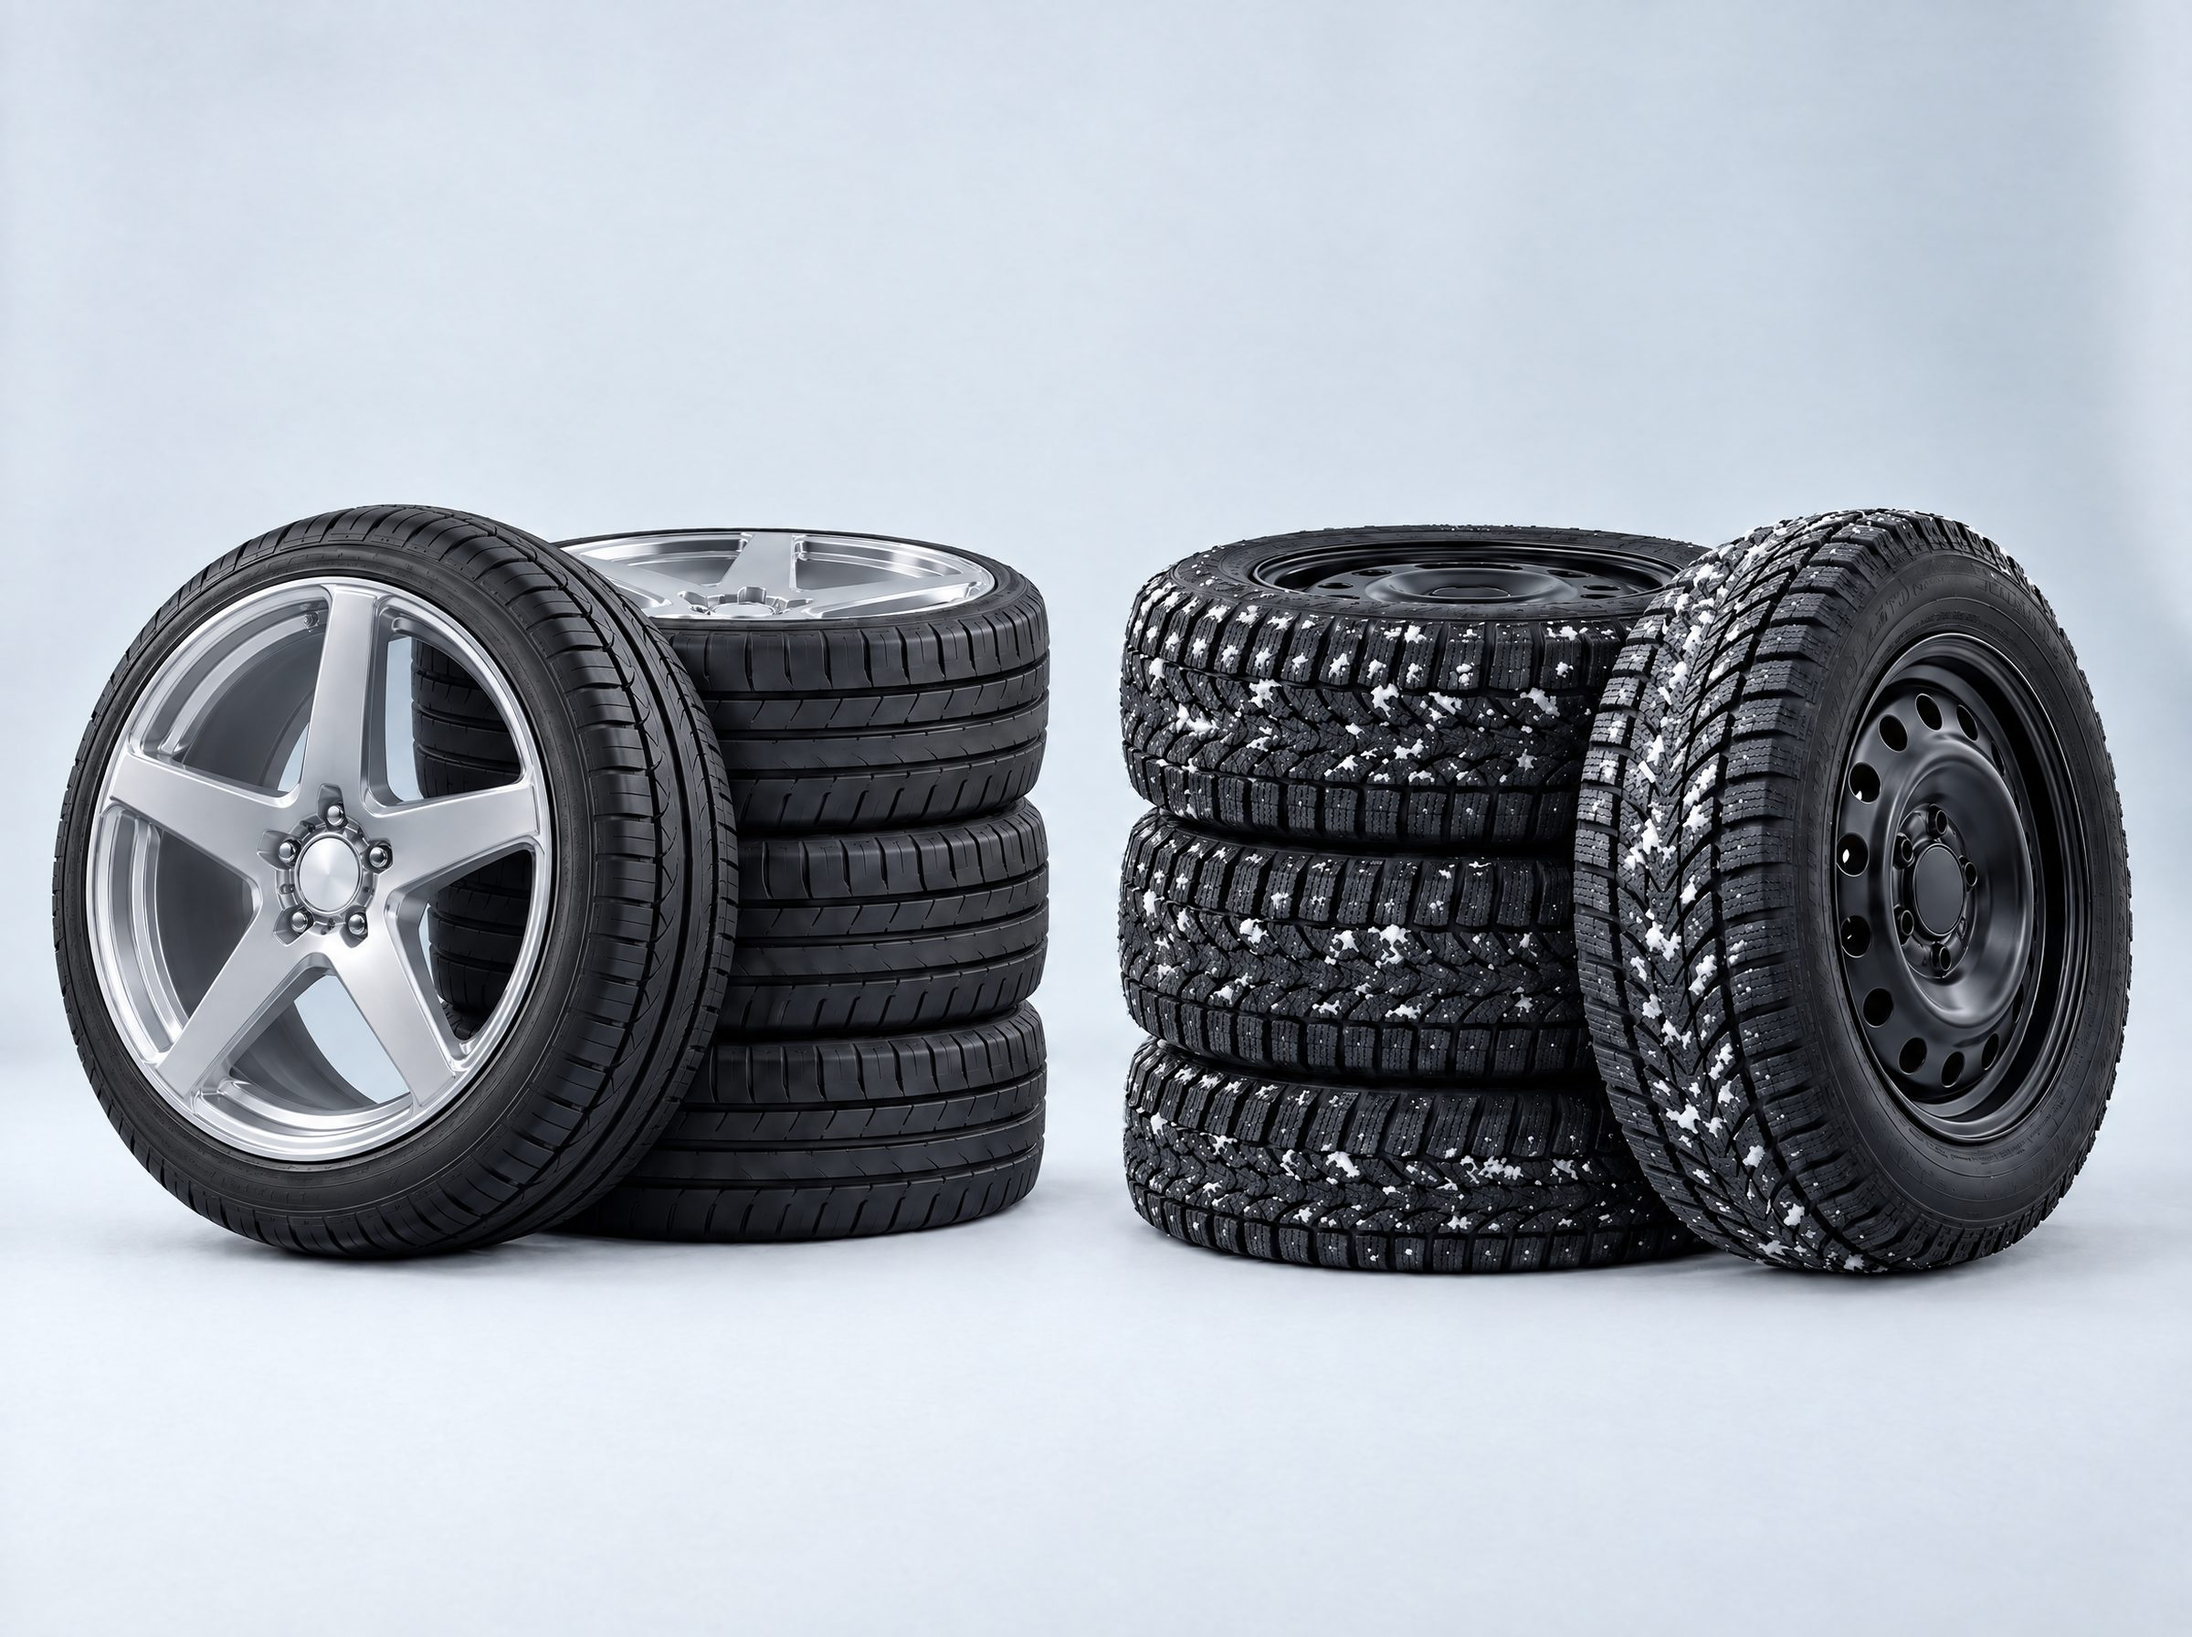
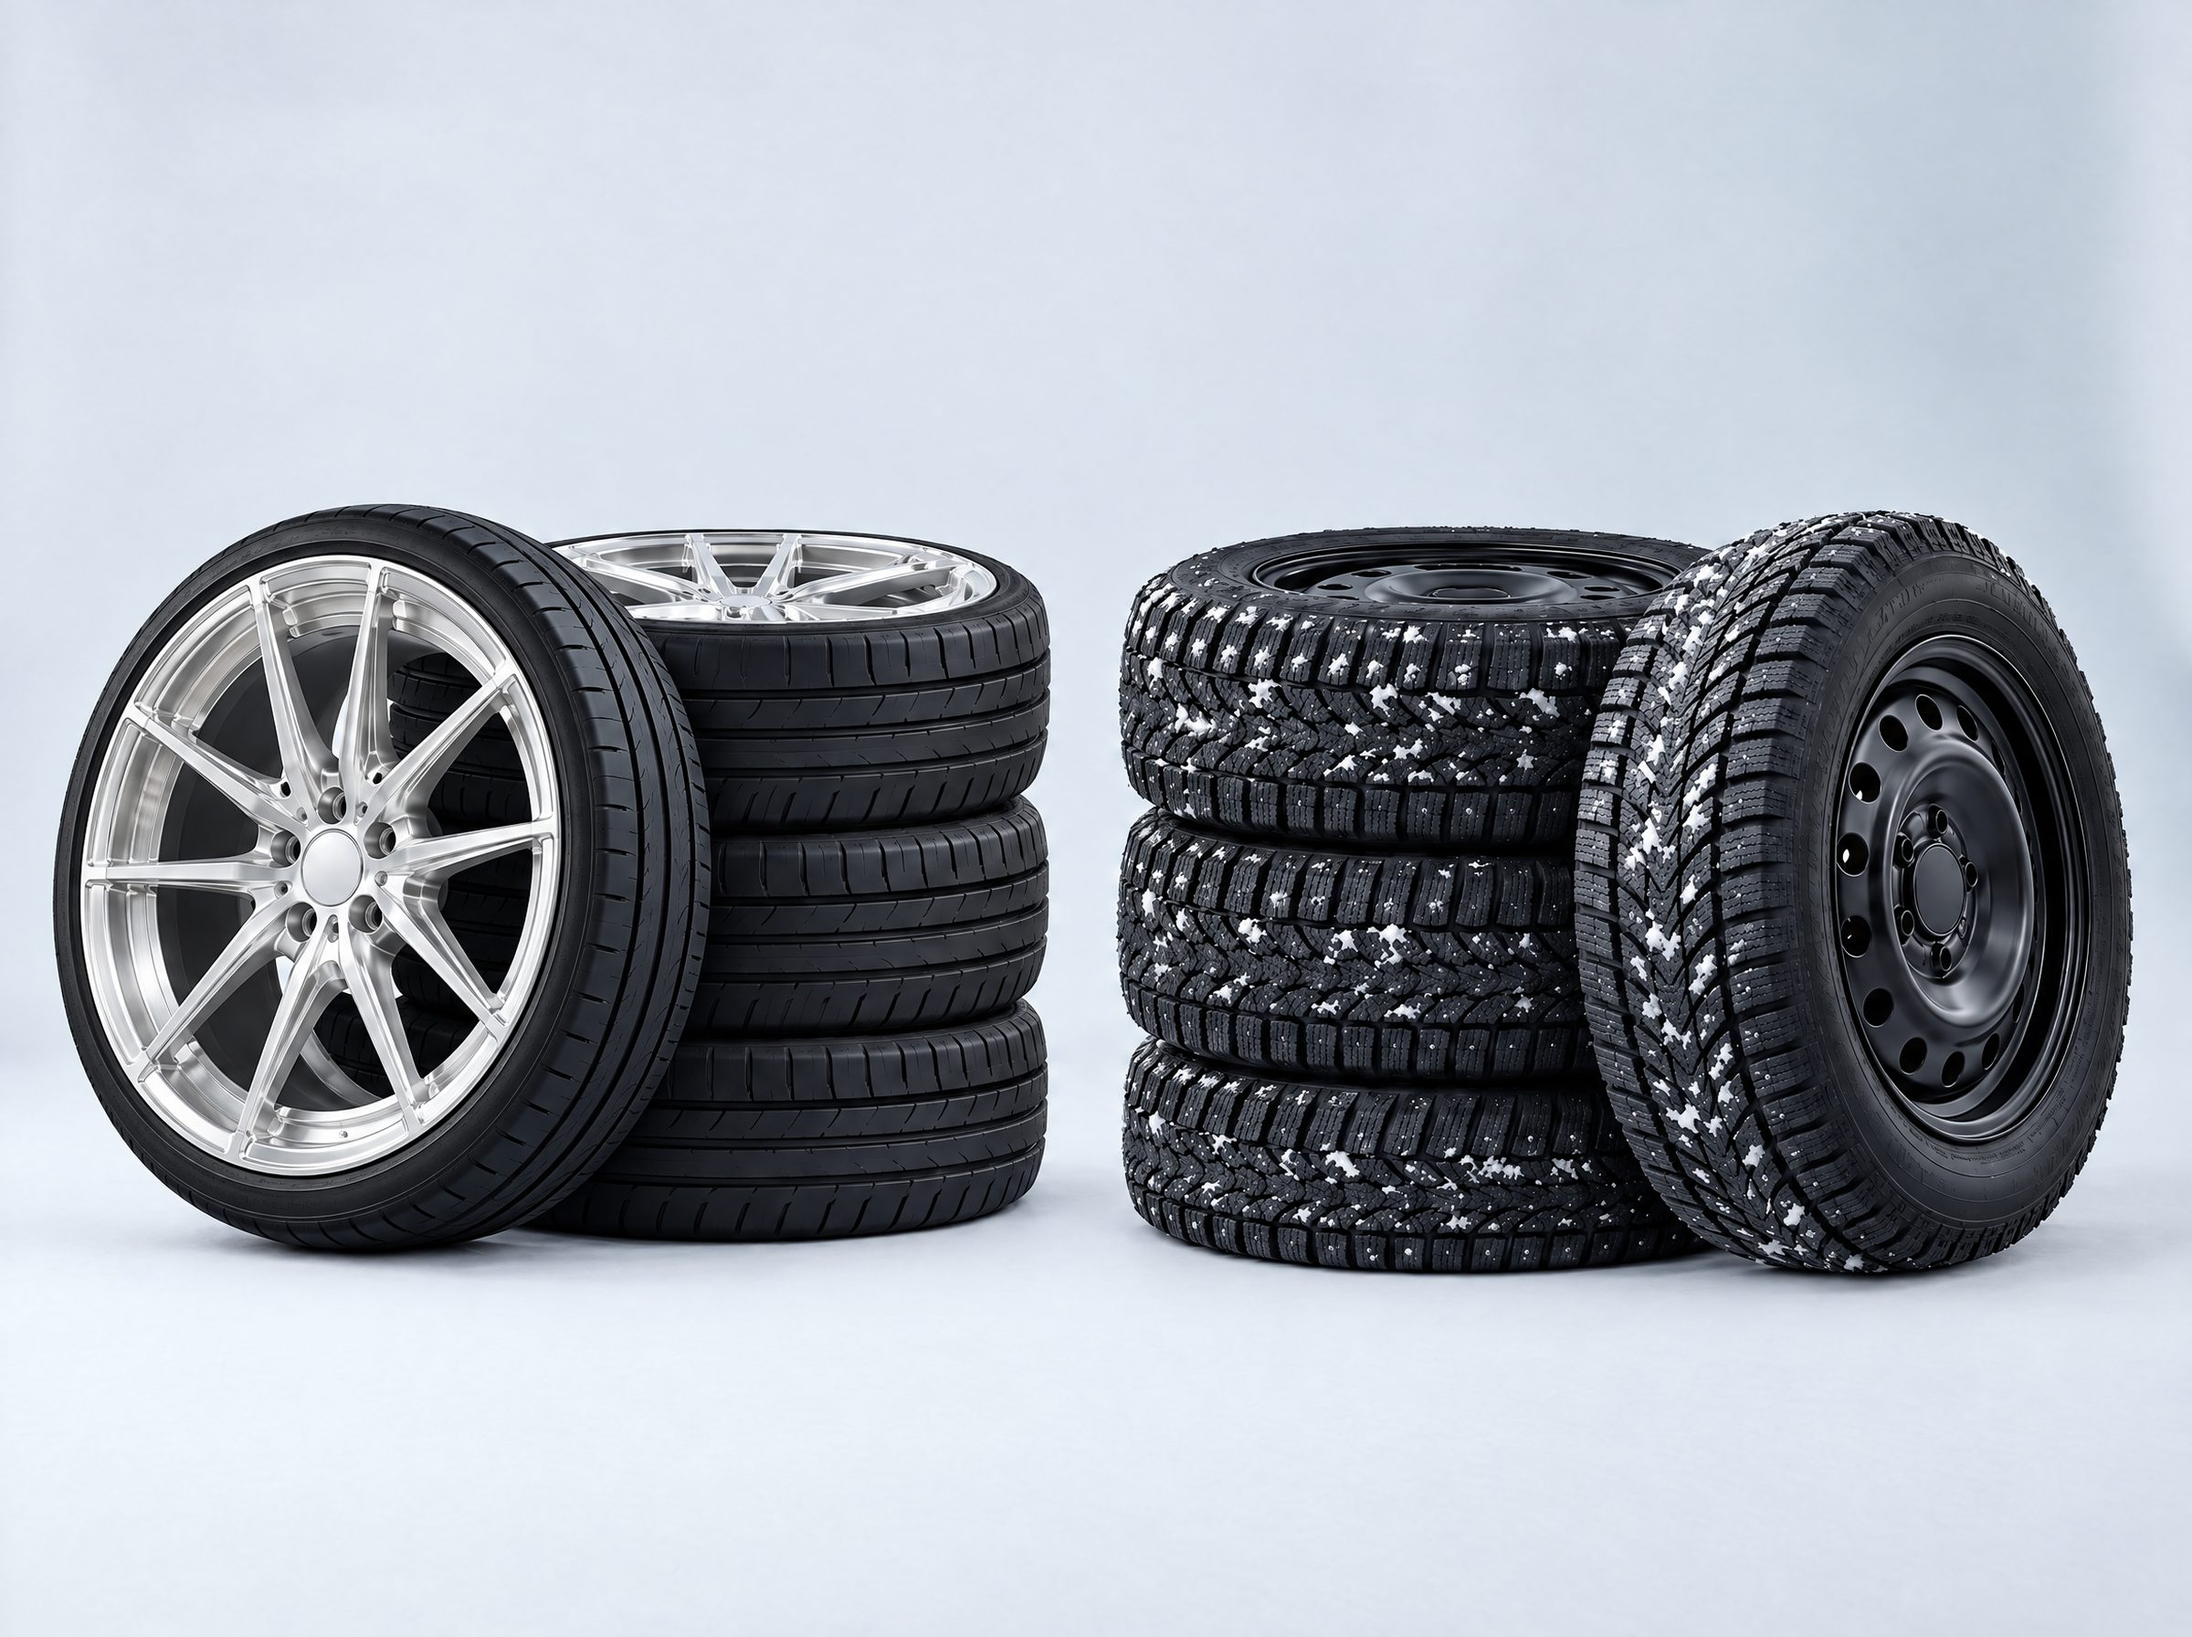
Services: brushed split-spoke wheels with summer sport tires in the tire photos

diff --git a/lib/i18n/fr.ts b/lib/i18n/fr.ts
@@ -144,8 +144,8 @@ export const fr: Dict = {
     "p07-worn": "Le disque retiré : rayé, avec une lèvre au bord et de la rouille au moyeu.",
     "p07-brakes": "Le disque et l’étrier neufs, posés et serrés au couple.",
     "d-oil": "De l’huile entièrement synthétique neuve et un filtre neuf.",
-    "d-tires": "Trois roues d’été sur jantes en alliage argent empilées, une quatrième appuyée devant, à côté d’une pile semblable de roues d’hiver sur jantes d’acier noires, saupoudrées de neige.",
-    "d-install": "Trois roues à jantes argent à cinq rayons avec pneus neufs, empilées, une quatrième appuyée devant, à côté d’une pile de pneus neufs vides, un quatrième appuyé devant.",
+    "d-tires": "Trois roues d’été sur jantes argent brossé à rayons doubles empilées, une quatrième appuyée devant, à côté d’une pile semblable de roues d’hiver sur jantes d’acier noires, saupoudrées de neige.",
+    "d-install": "Trois roues à jantes argent brossé à rayons doubles avec pneus d’été neufs, empilées, une quatrième appuyée devant, à côté d’une pile de pneus neufs vides, un quatrième appuyé devant.",
     "d-brakes": "Un disque, des plaquettes et un étrier neufs : un essieu complet.",
     "d-battery": "Une batterie neuve et le testeur qui vérifie la recharge.",
     "d-diag": "La tablette et le câble de diagnostic.",

diff --git a/lib/i18n/en.ts b/lib/i18n/en.ts
@@ -141,8 +141,8 @@ export const en = {
     "p07-worn": "The disc that came off: grooved, lipped at the edge, rusted at the hat.",
     "p07-brakes": "The new disc and caliper, fitted and torqued.",
     "d-oil": "Fresh full synthetic oil and a new filter.",
-    "d-tires": "Three summer wheels on silver alloy rims stacked with a fourth leaning in front, beside a matching stack of winter wheels on black steel rims, dusted with snow.",
-    "d-install": "Three wheels with silver five-spoke rims and new tires stacked with a fourth leaning in front, beside a stack of empty new tires with a fourth leaning in front.",
+    "d-tires": "Three summer wheels on brushed silver split-spoke rims stacked with a fourth leaning in front, beside a matching stack of winter wheels on black steel rims, dusted with snow.",
+    "d-install": "Three wheels with brushed silver split-spoke rims and new summer tires stacked with a fourth leaning in front, beside a stack of empty new tires with a fourth leaning in front.",
     "d-brakes": "A new disc, pads and caliper: one axle's worth.",
     "d-battery": "A new battery and the tester that checks the charging system.",
     "d-diag": "The diagnostic tablet and cable.",
